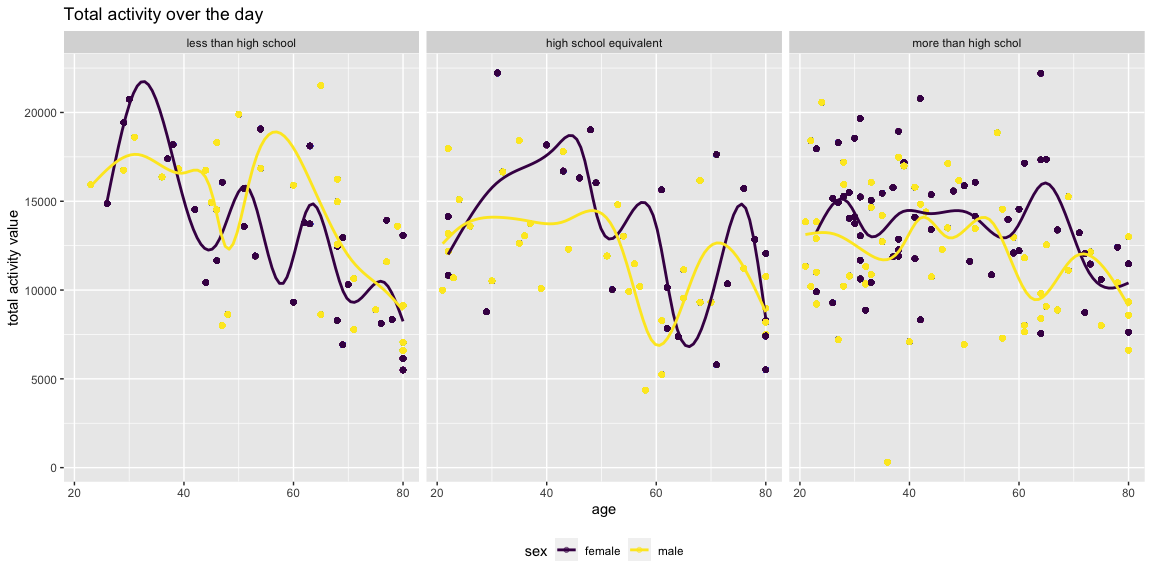
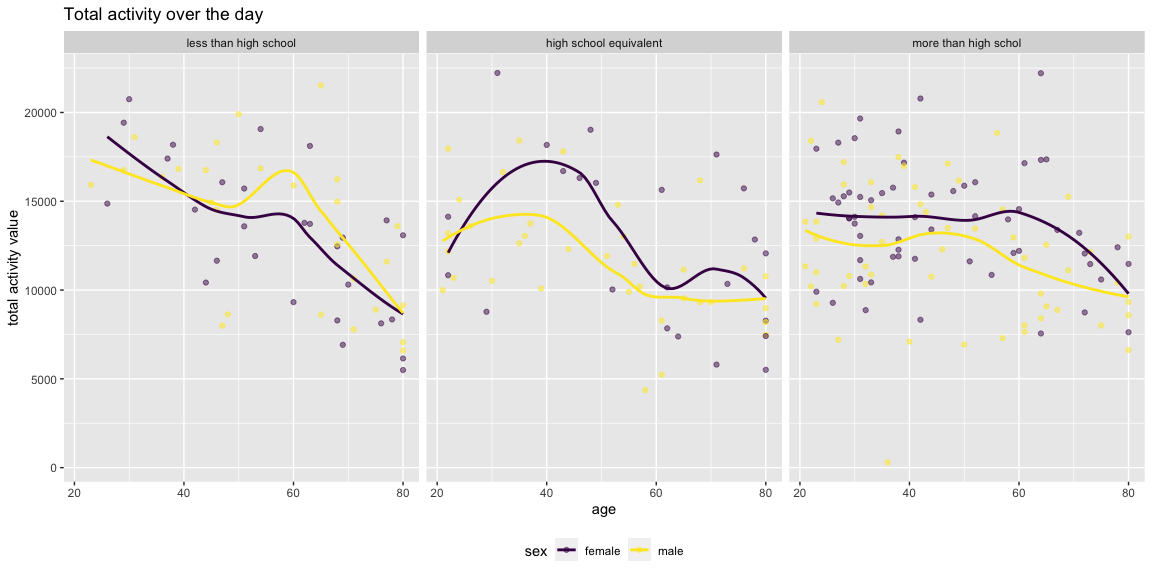
trying different graphs for problem 3

diff --git a/p8105_hw3_yj2803.md b/p8105_hw3_yj2803.md
@@ -235,8 +235,7 @@ df_brfss_excellent <- df_brfss_cleaned |>
 df_brfss_excellent |> 
   rename("state" = locationabbr) |> # renamed column for plot output
   ggplot(aes(x = year, y = value_mean, group = state, color = state)) + 
-  geom_point() + # spaghetti plot
-  geom_line() +
+  geom_line() + # spaghetti plot
   theme(legend.text = element_text(size = 6)) + # changed legend text size
   guides(color = guide_legend(ncol = 3)) + # changed the number of legend columns
   labs(
@@ -248,6 +247,8 @@ df_brfss_excellent |>
 ```
 
 ![](p8105_hw3_yj2803_files/figure-gfm/unnamed-chunk-12-1.png)<!-- -->
+The graph indicates that the average value among people who responded
+Excellent in each state is slightly decreasing over the year.
 
 - Make a two-panel plot showing, for the years 2006, and 2010,
   distribution of `data_value` for responses (“Poor” to “Excellent”)
@@ -289,6 +290,9 @@ p_ny_2006 + p_ny_2010 # put two plots side by side
 ```
 
 ![](p8105_hw3_yj2803_files/figure-gfm/unnamed-chunk-13-1.png)<!-- -->
+From this graph, we can tell that those who responded Excellent in New
+York County has the highest data value among all in 2006; in 2010,
+Westchester County has the highest data value.
 
 # Problem 3
 
@@ -335,7 +339,7 @@ df_mims_cleaned =
 ``` r
 df_mims_cleaned |> 
   group_by(sex, education) |> # group by sex and education
-  summarise(count = n()) |> 
+  summarise(count = n_distinct(seqn)) |> 
   pivot_wider( # change the table from long to wide
     names_from = education, 
     values_from = count
@@ -345,8 +349,8 @@ df_mims_cleaned |>
 
 | sex    | less than high school | high school equivalent | more than high schol |
 |:-------|----------------------:|-----------------------:|---------------------:|
-| female |                 40320 |                  33120 |                84960 |
-| male   |                 38880 |                  50400 |                80640 |
+| female |                    28 |                     23 |                   59 |
+| male   |                    27 |                     35 |                   56 |
 
 The table shows the number of men and women in each education category.
 The number of people who received more than high school education was
@@ -389,8 +393,8 @@ equivalent education appears to have the highest median age.
 
 ``` r
 df_mims_cleaned |> 
-  group_by(seqn) |> 
-  mutate(
+  group_by(seqn, age, sex, education) |> 
+  summarise(
     total_values = sum(mims_values) 
   ) |> # added a column that sums up mims_values for each individual
   ggplot(aes(x = age, y = total_values, color = sex)) +
@@ -408,6 +412,13 @@ df_mims_cleaned |>
 ```
 
 ![](p8105_hw3_yj2803_files/figure-gfm/unnamed-chunk-17-1.png)<!-- -->
+The graph shows total activity value against age in each sex and
+education level. In “less than high school” education level, young
+people in their 20s-40s, especially women, are the most active. In “high
+school equivalent” education level, both men and women in their 30s to
+50s are the most active. In “more than high school” education level,
+older people (60s~) maintain a relatively high total activity level
+compared to other education levels.
 
 **24-hour activity time courses**
 
@@ -420,7 +431,7 @@ df_mims_cleaned |>
   facet_grid(~ education) +
   labs(
     title = "24-hour activity activity time courses of the day",
-    y = "total activity value"
+    y = "activity value"
   ) +
   theme(legend.position = "bottom") +
   viridis::scale_color_viridis(
@@ -429,3 +440,24 @@ df_mims_cleaned |>
 ```
 
 ![](p8105_hw3_yj2803_files/figure-gfm/unnamed-chunk-18-1.png)<!-- -->
+
+``` r
+
+df_mims_cleaned |> 
+  group_by(min, sex, education) |> 
+  summarise(avg_mims_values = mean(mims_values)) |> 
+  ggplot(aes(x = min, y = avg_mims_values, color = sex)) +
+  geom_point(alpha = .5) +
+  geom_smooth(se = F) +
+  facet_grid(~ education) +
+  labs(
+    title = "24-hour activity activity time courses of the day",
+    y = "activity value"
+  ) +
+  theme(legend.position = "bottom") +
+  viridis::scale_color_viridis(
+    discrete = TRUE
+  )
+```
+
+![](p8105_hw3_yj2803_files/figure-gfm/unnamed-chunk-18-2.png)<!-- -->
